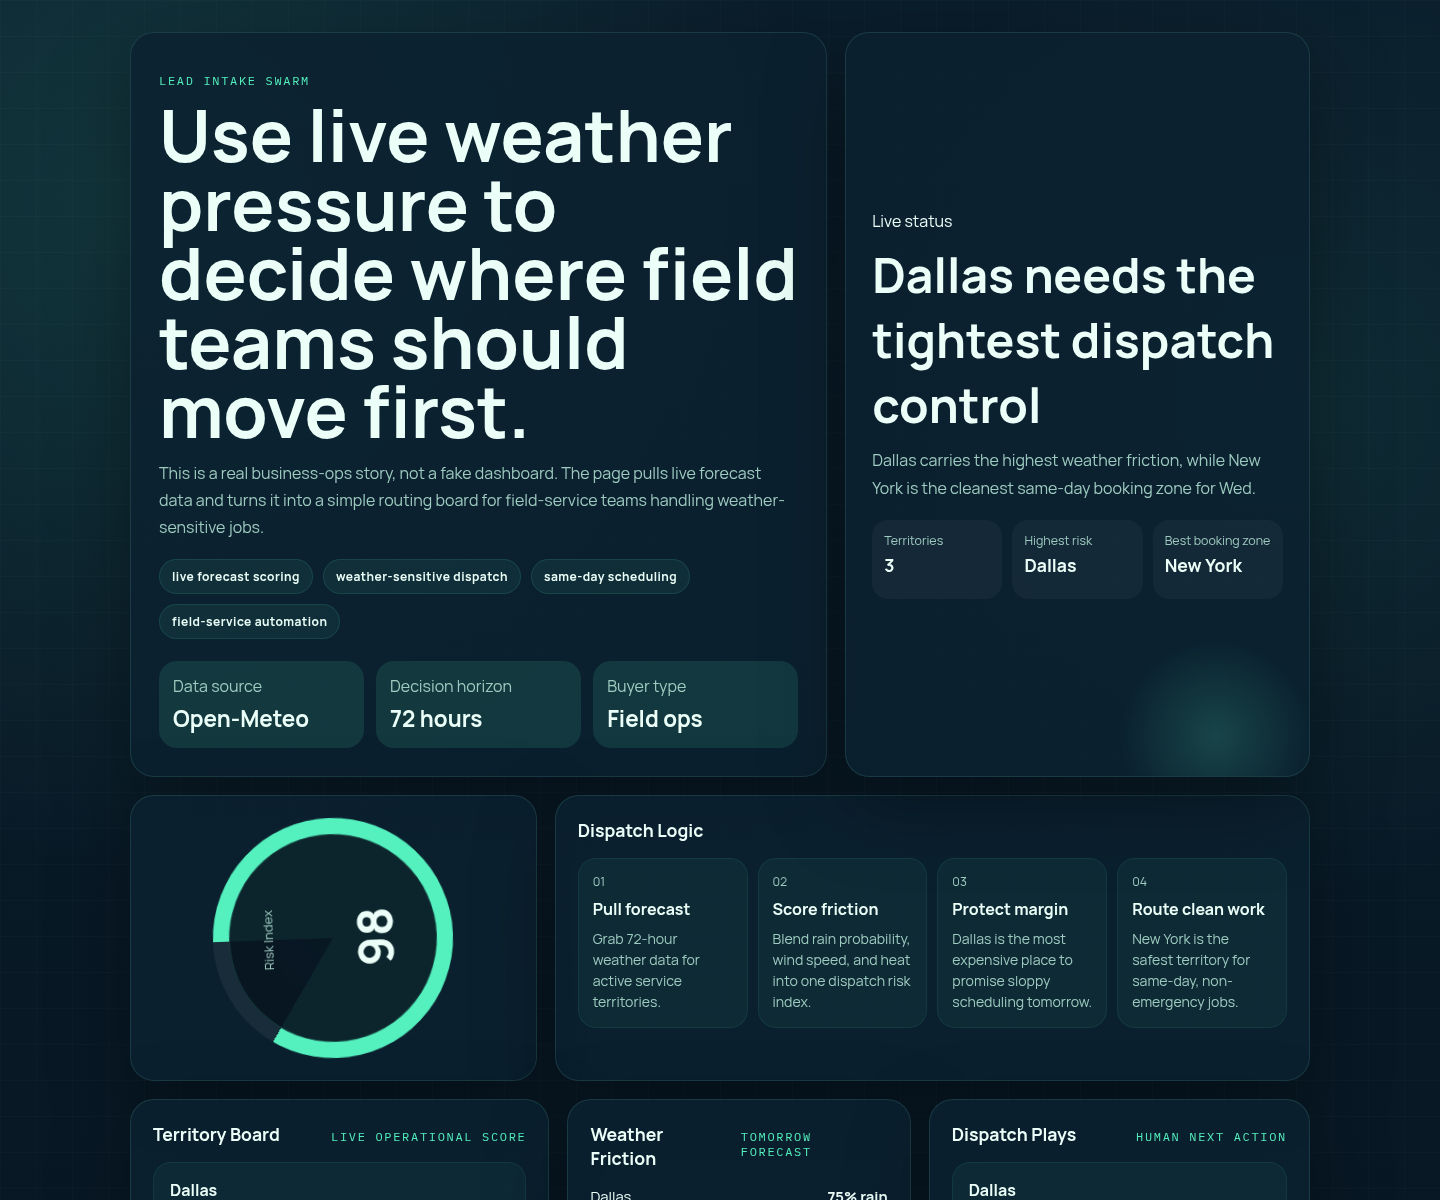
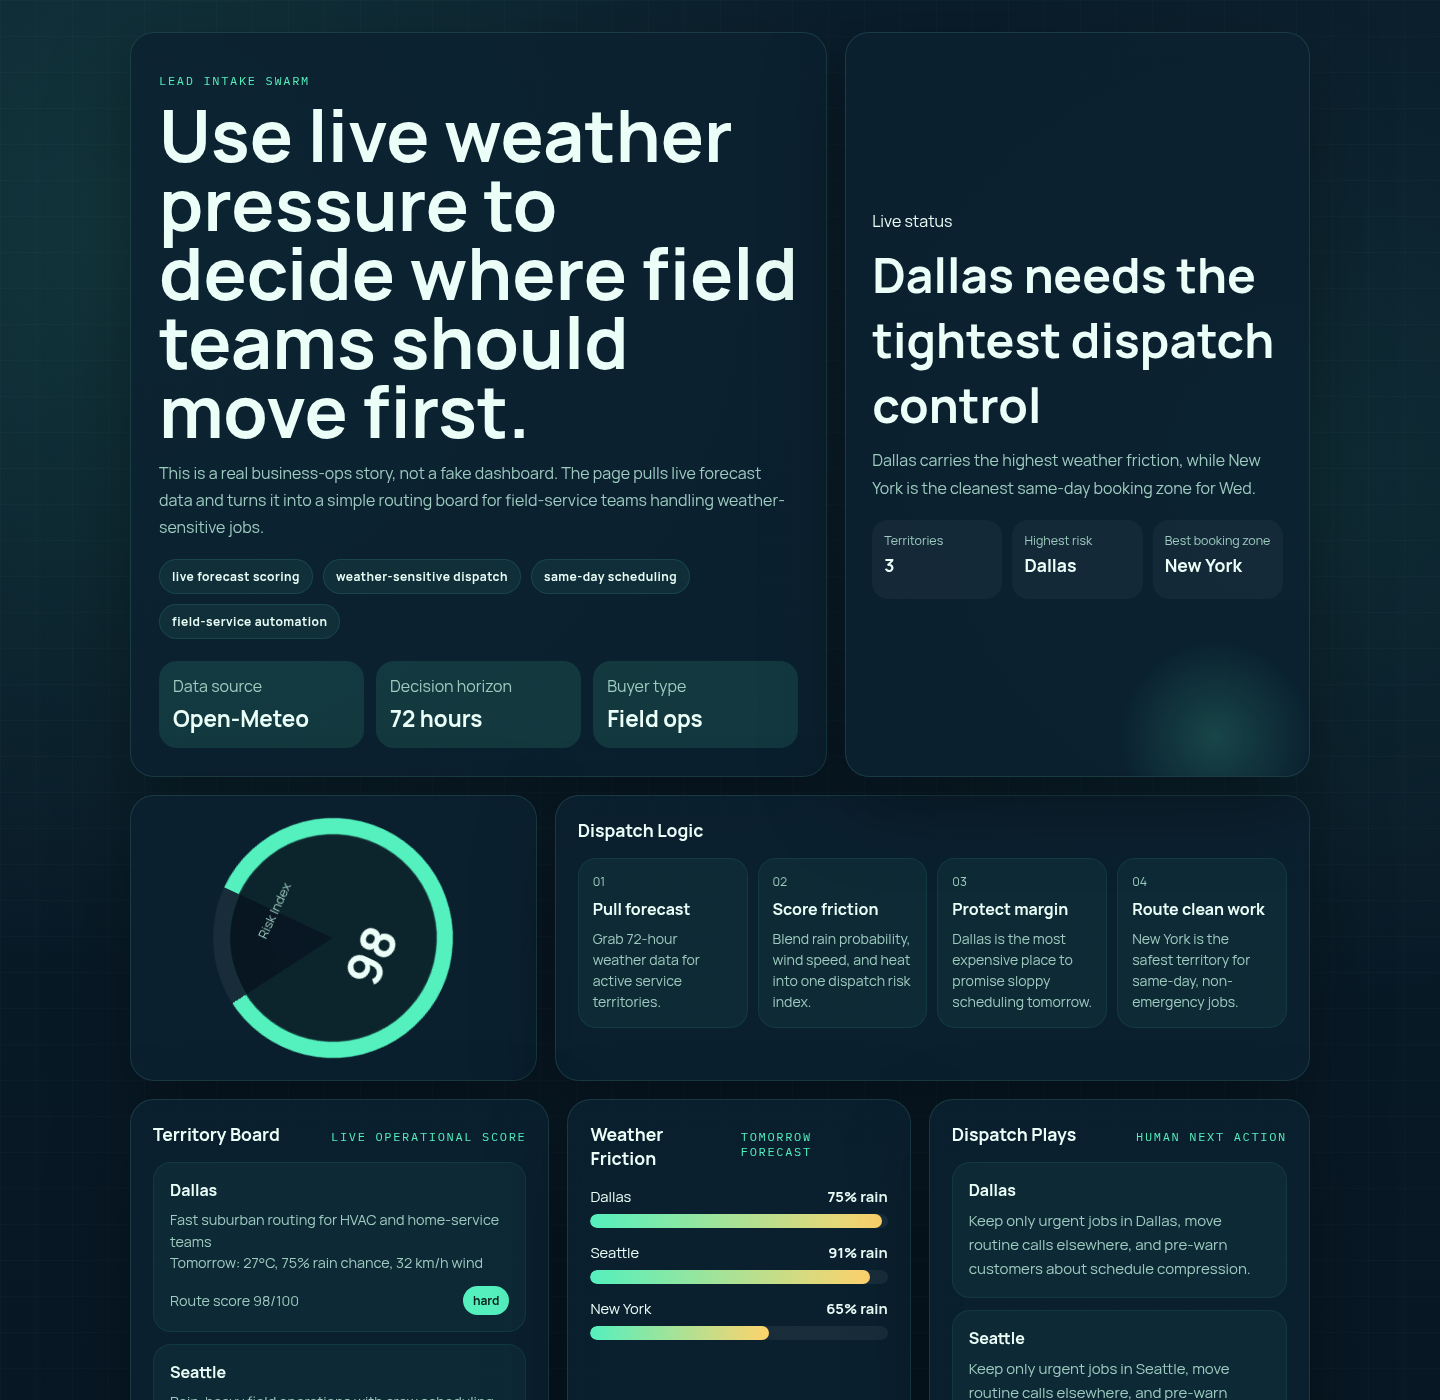
Add flagship revenue simulator

Changed region(s): [[0.0938, 0.0617, 0.9062, 1.0], [0.5938, 0.1542, 0.9062, 0.6167], [0.5625, 0.9867, 0.625, 1.0]]

diff --git a/app.js b/app.js
@@ -24,6 +24,9 @@ const barList = document.getElementById("bars");
 const actionList = document.getElementById("action-list");
 const signalTape = document.getElementById("signal-tape");
 const sequenceRail = document.getElementById("sequence-rail");
+const avgTicketInput = document.getElementById("avg-ticket");
+const jobsDayInput = document.getElementById("jobs-day");
+let latestRows = [];
 
 [
   "live forecast scoring",
@@ -154,6 +157,34 @@ function renderBoard(rows) {
   });
 }
 
+function formatMoney(value) {
+  return new Intl.NumberFormat(undefined, {
+    style: "currency",
+    currency: "USD",
+    maximumFractionDigits: 0
+  }).format(value);
+}
+
+function updateSimulator() {
+  if (!latestRows.length) {
+    return;
+  }
+
+  const focus = latestRows[0];
+  const avgTicket = Number(avgTicketInput.value);
+  const jobs = Number(jobsDayInput.value);
+  const exposure = avgTicket * jobs * (focus.score / 100) * 0.35;
+  const jobsToShift = Math.max(Math.round(jobs * (focus.score / 100) * 0.45), 1);
+  const savings = jobsToShift * avgTicket * 0.18;
+
+  document.getElementById("avg-ticket-value").textContent = formatMoney(avgTicket);
+  document.getElementById("jobs-day-value").textContent = String(jobs);
+  document.getElementById("sim-city").textContent = focus.name;
+  document.getElementById("sim-risk").textContent = formatMoney(exposure);
+  document.getElementById("sim-shift").textContent = String(jobsToShift);
+  document.getElementById("sim-save").textContent = formatMoney(savings);
+}
+
 async function loadTerritory(territory) {
   const response = await fetch(forecastUrl(territory));
   if (!response.ok) {
@@ -179,6 +210,7 @@ async function main() {
   try {
     const rows = await Promise.all(territories.map(loadTerritory));
     rows.sort((a, b) => b.score - a.score);
+    latestRows = rows;
 
     const highest = rows[0];
     const lowest = rows[rows.length - 1];
@@ -191,6 +223,7 @@ async function main() {
 
     renderSequence(highest, lowest);
     renderBoard(rows);
+    updateSimulator();
   } catch (error) {
     document.getElementById("hero-status").textContent = "Live data unavailable";
     document.getElementById("hero-summary").textContent = error.message;
@@ -203,5 +236,8 @@ async function main() {
     `;
   }
 }
+
+avgTicketInput.addEventListener("input", updateSimulator);
+jobsDayInput.addEventListener("input", updateSimulator);
 
 main();

diff --git a/index.html b/index.html
@@ -97,6 +97,50 @@
       </div>
     </section>
 
+    <section class="flagship-grid">
+      <div class="command-card simulator">
+        <div class="panel-head">
+          <h2>Revenue Protection Simulator</h2>
+          <span>Flagship layer</span>
+        </div>
+        <div class="sim-controls">
+          <label class="sim-control">
+            <span>Average job value</span>
+            <input id="avg-ticket" type="range" min="250" max="2500" step="50" value="900">
+            <strong id="avg-ticket-value">$900</strong>
+          </label>
+          <label class="sim-control">
+            <span>Jobs scheduled tomorrow</span>
+            <input id="jobs-day" type="range" min="4" max="40" step="1" value="14">
+            <strong id="jobs-day-value">14</strong>
+          </label>
+        </div>
+        <div class="sim-results">
+          <div class="sim-card">
+            <span>Focus market</span>
+            <strong id="sim-city">--</strong>
+          </div>
+          <div class="sim-card">
+            <span>Revenue exposed</span>
+            <strong id="sim-risk">$0</strong>
+          </div>
+          <div class="sim-card">
+            <span>Jobs to re-route</span>
+            <strong id="sim-shift">0</strong>
+          </div>
+          <div class="sim-card">
+            <span>Potential savings</span>
+            <strong id="sim-save">$0</strong>
+          </div>
+        </div>
+      </div>
+      <div class="command-card flagship-note">
+        <span>Why this is a flagship</span>
+        <strong>It combines live external data, operational scoring, and an explicit money consequence in one page.</strong>
+        <p>That makes it much easier to pitch as the front-end of a real workflow: forecast pull, dispatch rules, customer notifications, and CRM updates triggered automatically.</p>
+      </div>
+    </section>
+
     <section class="story-strip">
       <div class="story-card">
         <span>Why this sells</span>

diff --git a/styles.css b/styles.css
@@ -209,6 +209,78 @@ h1 {
   padding: 22px;
 }
 
+.flagship-grid {
+  display: grid;
+  grid-template-columns: 1.2fr 0.8fr;
+  gap: 18px;
+  margin-top: 18px;
+}
+
+.simulator .panel-head {
+  margin-bottom: 18px;
+}
+
+.sim-controls {
+  display: grid;
+  grid-template-columns: 1fr 1fr;
+  gap: 14px;
+}
+
+.sim-control {
+  display: grid;
+  gap: 10px;
+  padding: 16px;
+  border-radius: 18px;
+  background: rgba(84, 240, 190, 0.05);
+  border: 1px solid rgba(84, 240, 190, 0.08);
+}
+
+.sim-control span,
+.sim-card span,
+.flagship-note span {
+  display: block;
+  font-size: 0.82rem;
+  color: var(--muted);
+}
+
+.sim-control input[type="range"] {
+  width: 100%;
+  accent-color: var(--accent);
+}
+
+.sim-control strong,
+.sim-card strong {
+  font-size: 1.25rem;
+}
+
+.sim-results {
+  display: grid;
+  grid-template-columns: repeat(4, 1fr);
+  gap: 12px;
+  margin-top: 16px;
+}
+
+.sim-card,
+.flagship-note {
+  padding: 18px;
+  border-radius: 20px;
+  border: 1px solid rgba(84, 240, 190, 0.08);
+  background: rgba(84, 240, 190, 0.04);
+}
+
+.flagship-note strong {
+  display: block;
+  margin: 10px 0;
+  font-size: clamp(1.1rem, 2vw, 1.4rem);
+  line-height: 1.35;
+}
+
+.flagship-note p {
+  margin: 0;
+  color: var(--muted);
+  line-height: 1.7;
+}
+
 .radar {
   display: grid;
   place-items: center;
@@ -458,6 +530,7 @@ h1 {
   .hero,
   .dashboard,
   .command-strip,
+  .flagship-grid,
   .story-strip,
   .sequence-rail {
     grid-template-columns: 1fr;
@@ -468,6 +541,11 @@ h1 {
   }
 
   .pulse-grid {
+    grid-template-columns: 1fr;
+  }
+
+  .sim-controls,
+  .sim-results {
     grid-template-columns: 1fr;
   }
 }

diff --git a/README.md b/README.md
@@ -31,6 +31,16 @@ For HVAC, roofing, home services, and any crew-based team, weather changes sched
 - `assets/social-preview.svg`: thumbnail art for repo links and posts
 - `assets/site-shot.png`: screenshot-ready preview image
 
+## Flagship Layer
+
+The site now includes a revenue protection simulator:
+
+- set average job value
+- set tomorrow's scheduled jobs
+- see a simple estimate of revenue exposure, jobs to re-route, and potential savings
+
+That gives the page an explicit money consequence instead of stopping at “interesting data.”
+
 ## Suggested Post Hook
 
 > Built a live dispatch board that uses tomorrow's forecast to decide where a field-service team should book work first.
